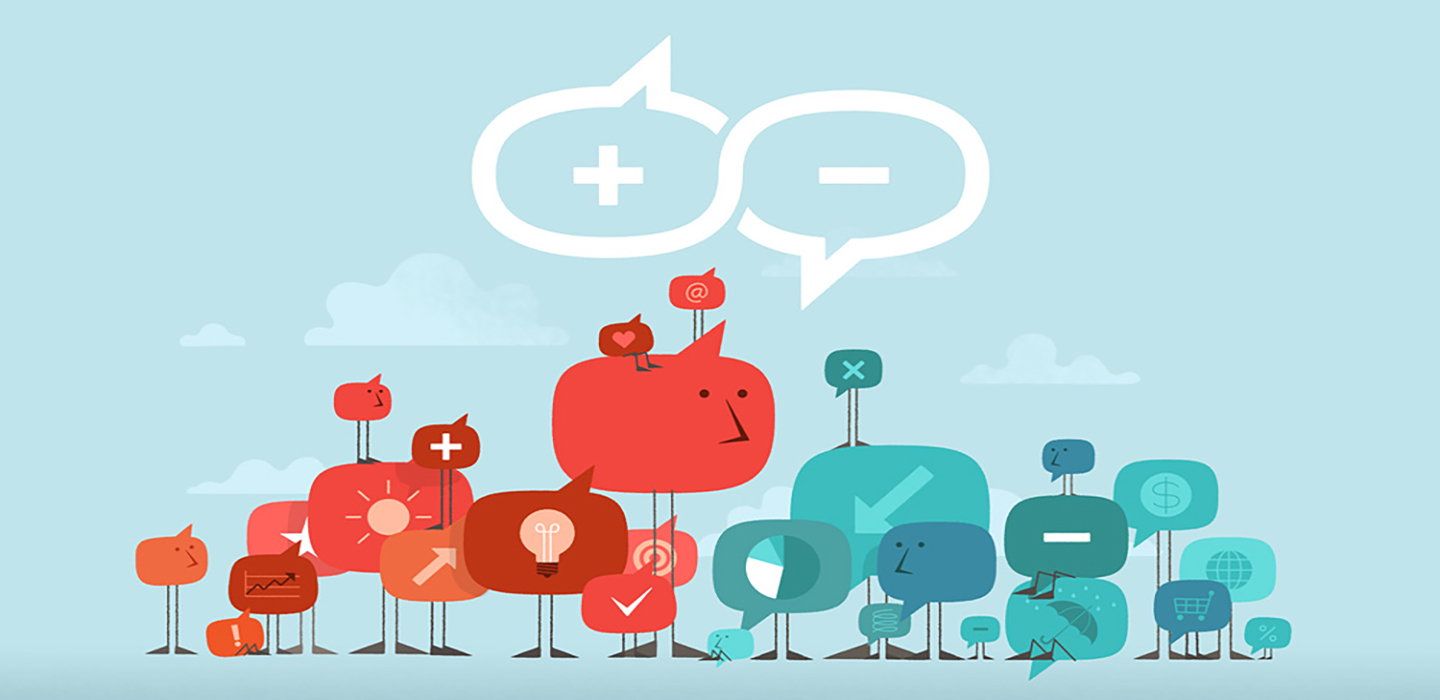
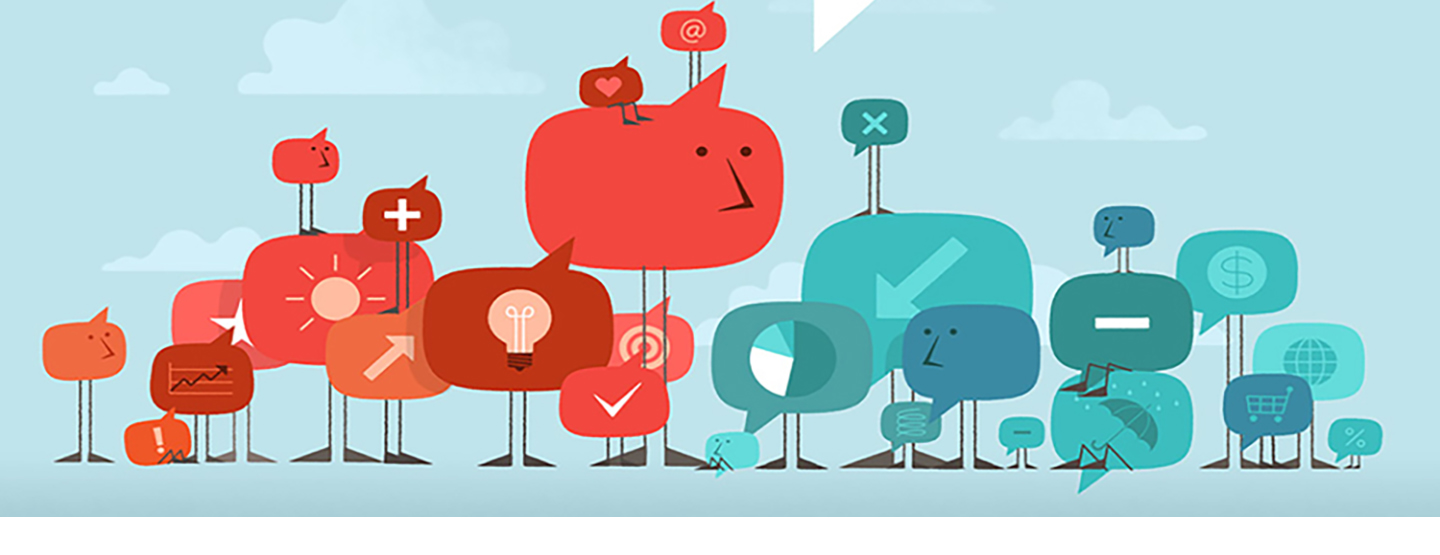
Stuff

diff --git a/app/assets/stylesheets/style.css b/app/assets/stylesheets/style.css
@@ -1,4 +1,4 @@
-/* Custom Stylesheet */
+  /* Custom Stylesheet */
 /**
  * Use this file to override Materialize files so you can update
  * the core Materialize files in the future
@@ -20,7 +20,8 @@ p {
 }
 
 .parallax-container {
-  min-height: 380px;
+  min-height: 300px;
+  max-height: 300px;
   line-height: 0;
   height: auto;
   color: rgba(255,255,255,.9);

diff --git a/app/assets/stylesheets/custom.css.scss b/app/assets/stylesheets/custom.css.scss
@@ -5,6 +5,10 @@ body {
   -o-background-size: cover;
 }
 
+#landing-background {
+  background: white;
+}
+
 .display-cards {
   min-height: 245px;
 }
